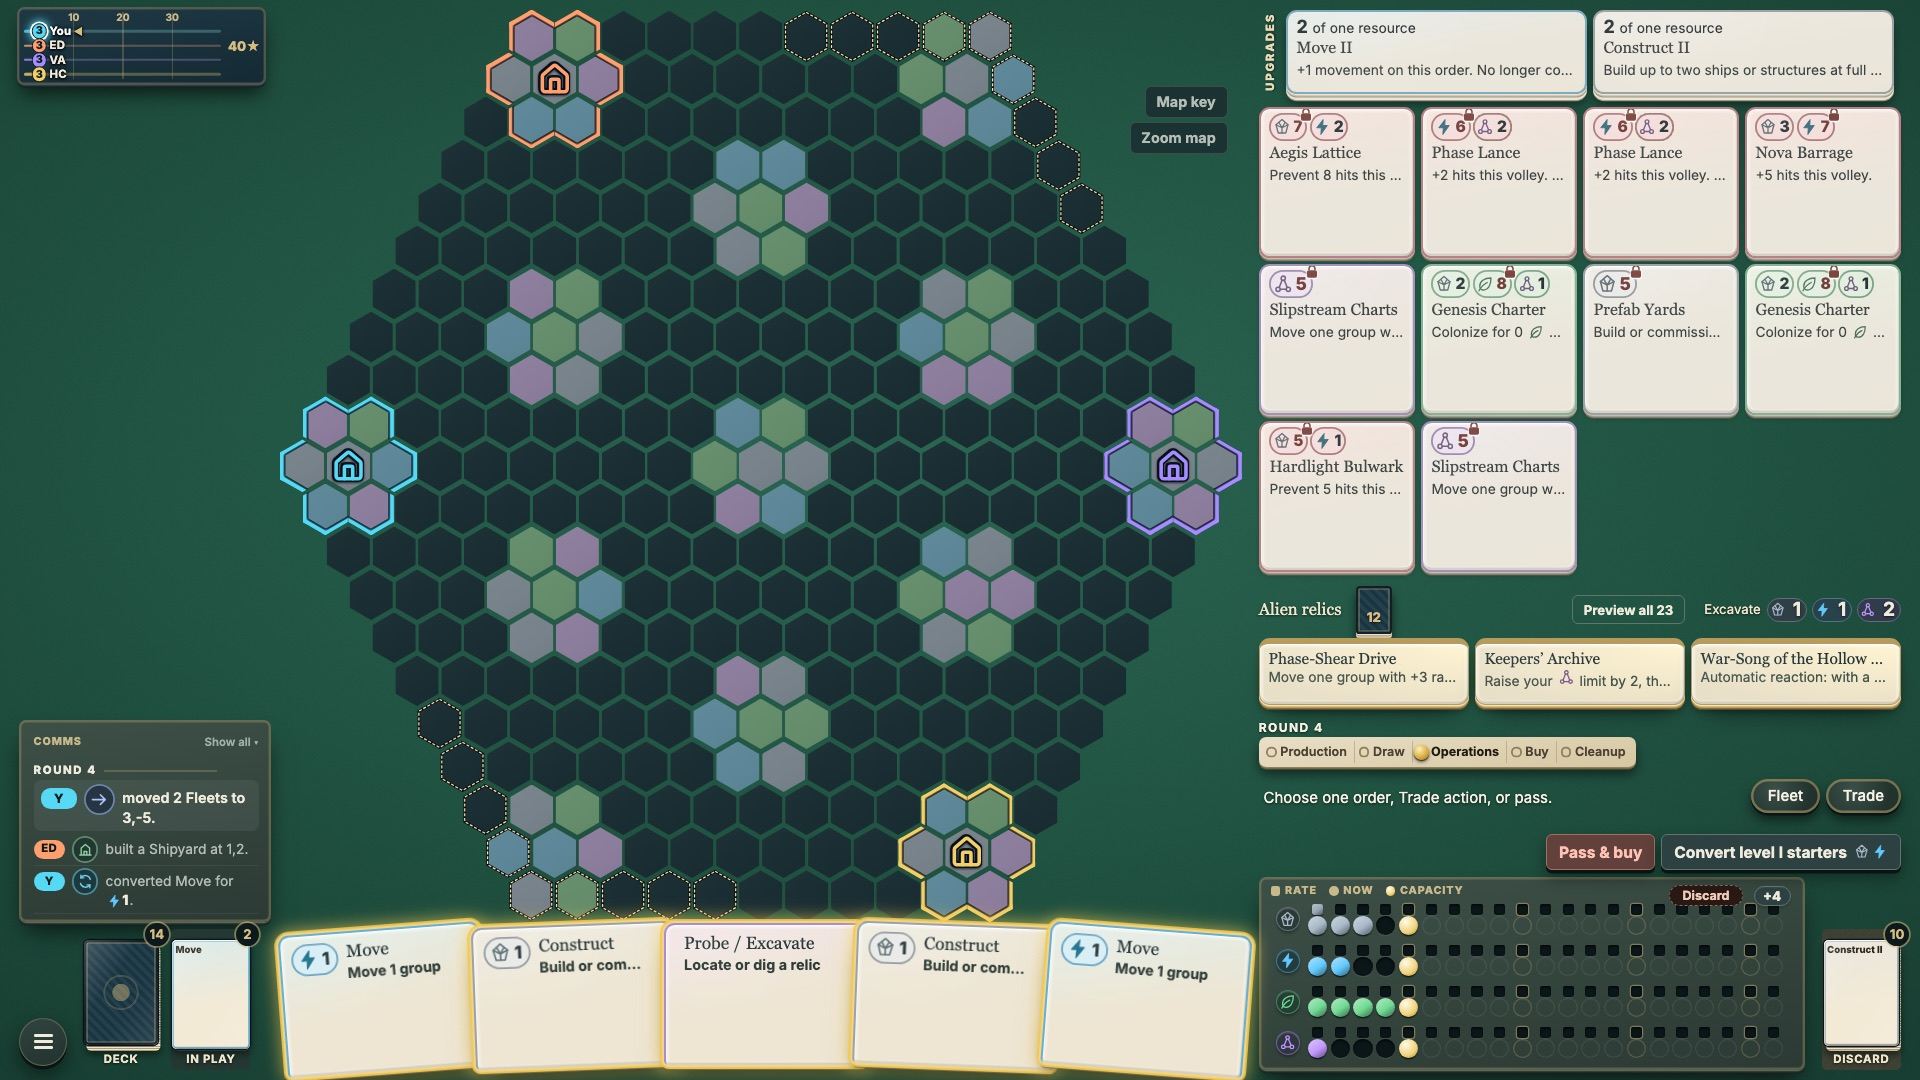
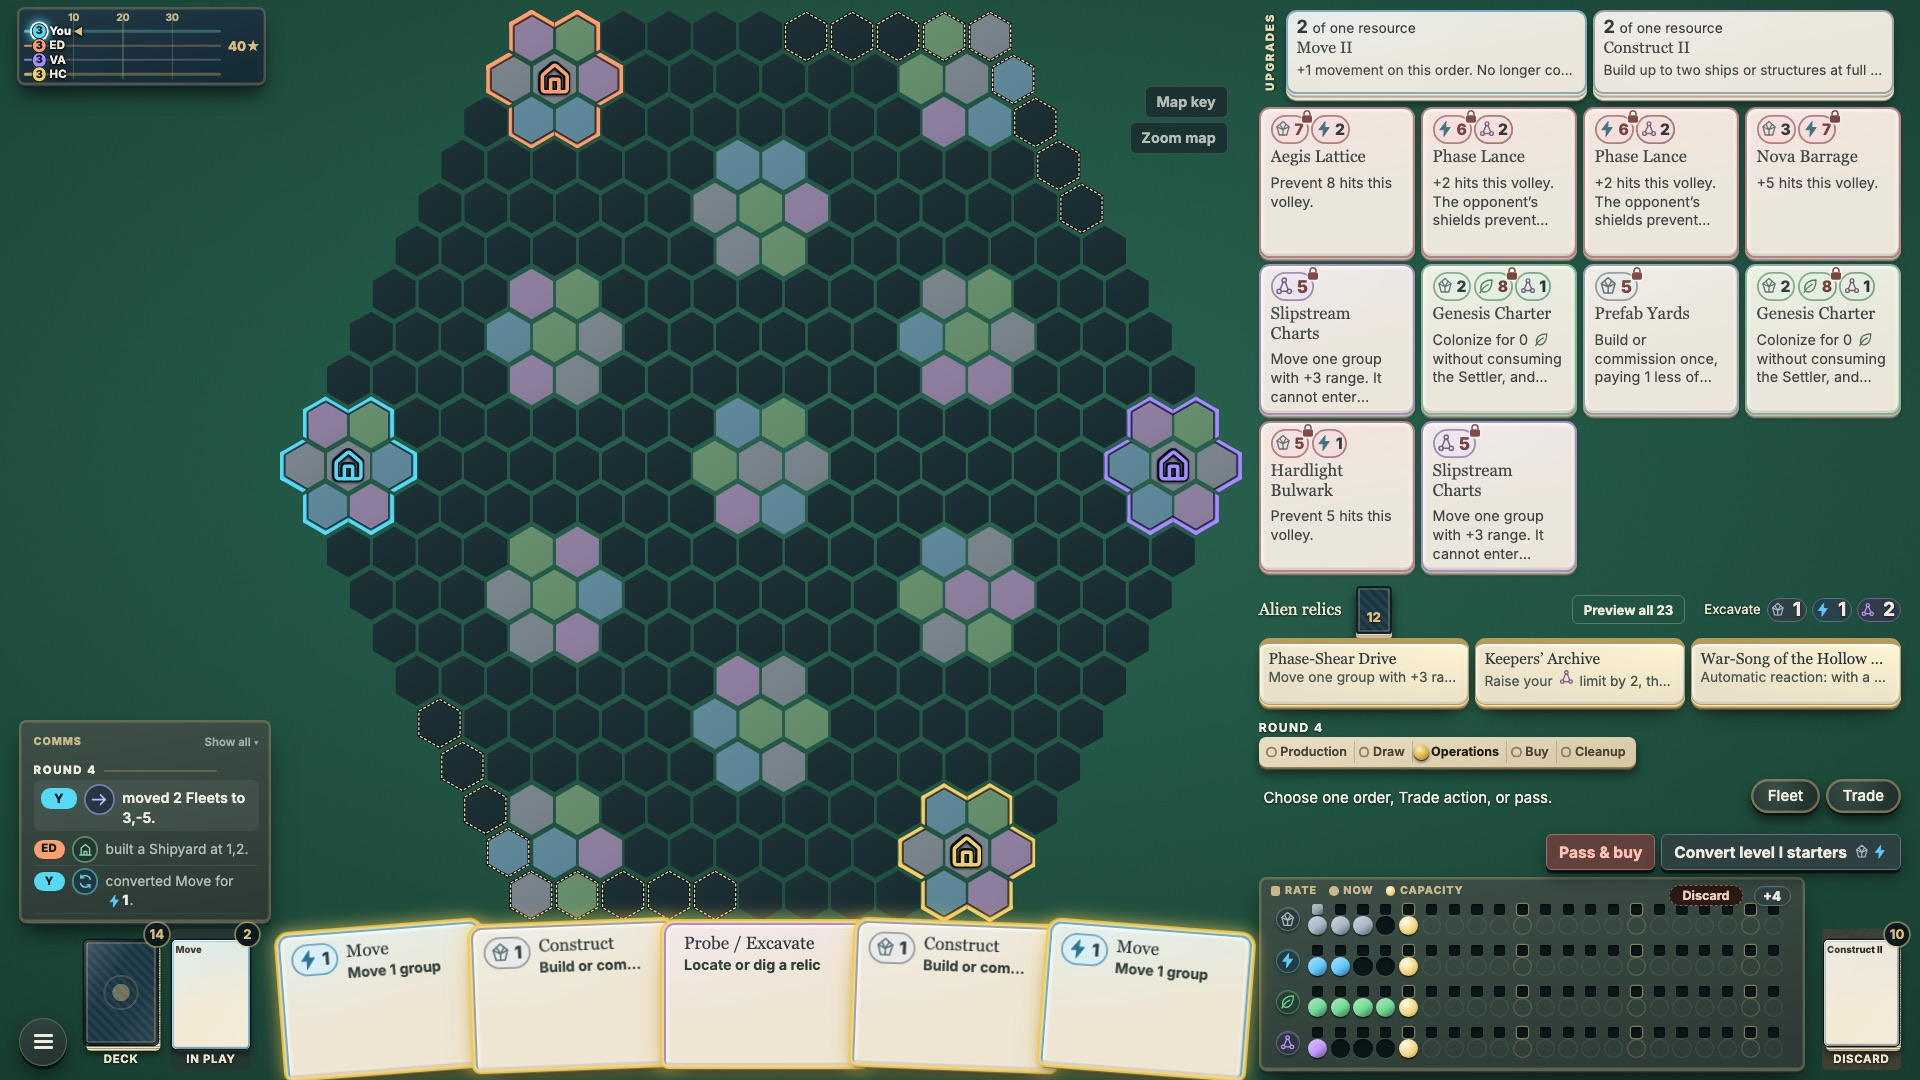
Market cards read without pointing: whole names on up to two lines and as much of each effect as the card's height allows, wrapped

Changed region(s): [[0.6562, 0.2444, 1.0, 0.5194], [0.75, 0.0917, 0.9688, 0.2139], [0.6562, 0.0917, 0.7188, 0.2139]]

diff --git a/prototypes/galactic-reach/rulebook.html b/prototypes/galactic-reach/rulebook.html
@@ -123,7 +123,7 @@
 
       <section id="movement">
         <h2>05 / Exploration &amp; movement</h2>
-        <p id="shared-board">Read shared table information around the board: on a desktop window, the whole window is one table, scaled as a whole to fit; the standings are the race to the Prestige goal, a small printed track by the map’s top-left corner with one lane per faction and its marker at its current score (the acting faction’s marker glows, with an arrow; point at or focus a marker for an overview of that faction’s Prestige sources, colonies, cards bought and fleet power, or select it for the breakdown; on a phone the track is the <strong>Table</strong> drawer); the comms feed lies in the bottom-left corner as a small card of the latest three entries, printed like your player mat; select it to open the whole feed, and again (or press Escape) to close it (each entry shows who acted, a symbol for the kind of event and its resource and Prestige amounts; point at an entry for the full sentence); the map itself fills all the space the other pieces leave, reaching into the corners around the track and the comms card; and to its right lies the supply, all visible together: the <strong>Upgrades</strong> tray (with <strong>Trash a card</strong> beside it during Buy), the ten market cards and the face-up alien relics; below the supply, by your seat, are the round’s phases, the turn prompt, <strong>Fleet</strong> and <strong>Trade</strong>, then the turn’s buttons. On your turn your hand glows and gently breathes (a still glow when your device asks for reduced motion). <strong>Fleet</strong> opens over the supply. The game’s title, rules, card gallery, new game, Undo and playtest notes open from the menu button in the bottom-left corner. The market shows its cards as compact card tops (point at one to read it in full; choose it to buy), and cards you can buy now are outlined in gold. <strong>Trade</strong> opens the trade channel in its own window. Card frames take the colour of the resource a card works with (gold for capacity, Buy and Prestige cards, red for military and attack cards); the map key shows them. Select a Prestige marker to inspect its breakdown; the scoring reference is in <a href="#victory">Victory</a>. On a narrow screen, these panels reflow inside the board frame; scroll the map to reach other hexes. The recent-action feed can say that Probe was used, but never gives its private relic location. Your hand, card piles, reserves, and full game-report download stay on your player mat. The report can include private information.</p>
+        <p id="shared-board">Read shared table information around the board: on a desktop window, the whole window is one table, scaled as a whole to fit; the standings are the race to the Prestige goal, a small printed track by the map’s top-left corner with one lane per faction and its marker at its current score (the acting faction’s marker glows, with an arrow; point at or focus a marker for an overview of that faction’s Prestige sources, colonies, cards bought and fleet power, or select it for the breakdown; on a phone the track is the <strong>Table</strong> drawer); the comms feed lies in the bottom-left corner as a small card of the latest three entries, printed like your player mat; select it to open the whole feed, and again (or press Escape) to close it (each entry shows who acted, a symbol for the kind of event and its resource and Prestige amounts; point at an entry for the full sentence); the map itself fills all the space the other pieces leave, reaching into the corners around the track and the comms card; and to its right lies the supply, all visible together: the <strong>Upgrades</strong> tray (with <strong>Trash a card</strong> beside it during Buy), the ten market cards and the face-up alien relics; below the supply, by your seat, are the round’s phases, the turn prompt, <strong>Fleet</strong> and <strong>Trade</strong>, then the turn’s buttons. On your turn your hand glows and gently breathes (a still glow when your device asks for reduced motion). <strong>Fleet</strong> opens over the supply. The game’s title, rules, card gallery, new game, Undo and playtest notes open from the menu button in the bottom-left corner. The market shows its cards with their names and as much of each effect as fits, wrapped (point at one to read it in full; choose it to buy), and cards you can buy now are outlined in gold. <strong>Trade</strong> opens the trade channel in its own window. Card frames take the colour of the resource a card works with (gold for capacity, Buy and Prestige cards, red for military and attack cards); the map key shows them. Select a Prestige marker to inspect its breakdown; the scoring reference is in <a href="#victory">Victory</a>. On a narrow screen, these panels reflow inside the board frame; scroll the map to reach other hexes. The recent-action feed can say that Probe was used, but never gives its private relic location. Your hand, card piles, reserves, and full game-report download stay on your player mat. The report can include private information.</p>
         <p id="keyboard-controls">Use <strong>Tab</strong> to reach controls and <strong>Enter</strong> or <strong>Space</strong> to activate them. The first link skips straight to player controls. Use arrow keys, Home, or End to switch the player-control tabs. Escape closes inspectors and reference windows. Combat and excess-resource choices stay open until you make the required choice.</p>
         <div class="book-legend" role="group" aria-label="Map symbols"><span><b class="relic-mark" aria-hidden="true">◈</b> Located relic</span><span><b class="relic-mark" aria-hidden="true">●</b> Gray moon · no production</span></div>
         <p>World terrain is always public, but seeing a world does not locate its relic. Any Settler, Fleet, or Explorer ending a move surveys that world or moon, revealing its terrain to everyone. Arrival never locates a relic. Use <strong>Probe</strong> from your Explorer’s current hex to locate the nearest remaining relic you have not already discovered, even on an unvisited world or hidden moon. Known sites are skipped. When you locate the last unknown site, a message tells you that all remaining relics are discovered. If all remaining sites are already known to you, Probe warns you without spending the card or your action. You do not need to reach that world or moon first. A signal on an undiscovered moon reveals the relic’s hex to you without revealing the moon’s terrain. Other players must locate it for themselves. Existing discovery relic cards keep their printed effects. Probe and Chorus signals stay private after later terrain surveys. Only an effect that explicitly reveals relics to everyone makes them public. All players’ units remain visible, including in empty space. Unit markers alone do not reveal a hidden moon or relic.</p>

diff --git a/prototypes/galactic-reach/styles.css b/prototypes/galactic-reach/styles.css
@@ -2486,3 +2486,21 @@ html { -webkit-text-size-adjust: 100%; text-size-adjust: 100%; }
 @media (max-width: 599px), (max-height: 599px) {
   body.my-turn #hand-row > .game-card { box-shadow: 0 0 0 2px #f2c94ccc, 0 0 12px 2px #f2c94c55 !important; }
 }
+
+/* ==== Supply cards read like cards without pointing at them: a folded market card shows as much
+   of its effect, wrapped, as its height allows (one to five lines, chosen by the card's own
+   height), in larger type under the name (up to two lines) and cost. Point at a card for the whole card as before. ==== */
+@media (min-width: 600px) and (min-height: 600px) {
+  #market-panel #market-row .game-card:not(:hover):not(:focus):not(:focus-within) { container-type: size; align-content: start; row-gap: 3px !important; padding: 5px 8px 6px !important; }
+  #market-panel #market-row .game-card:not(:hover):not(:focus):not(:focus-within) .card-name { font-size: 14px !important; line-height: 1.15 !important; white-space: normal !important; display: -webkit-box !important; -webkit-box-orient: vertical; -webkit-line-clamp: 2; line-clamp: 2; overflow: hidden !important; text-overflow: clip !important; }
+  /* The full effect takes the one-line headline's place. */
+  #market-panel #market-row .game-card:not(:hover):not(:focus):not(:focus-within) .card-headline { display: none !important; }
+  #market-panel #market-row .game-card:not(:hover):not(:focus):not(:focus-within) .card-effect {
+    grid-area: head !important; display: -webkit-box !important; -webkit-box-orient: vertical; -webkit-line-clamp: 1 !important; line-clamp: 1 !important;
+    white-space: normal !important; overflow: hidden !important; font-size: 12px !important; line-height: 1.3 !important;
+  }
+  @container (min-height: 94px) { #market-panel #market-row .game-card:not(:hover):not(:focus):not(:focus-within) .card-effect { -webkit-line-clamp: 2 !important; line-clamp: 2 !important; } }
+  @container (min-height: 110px) { #market-panel #market-row .game-card:not(:hover):not(:focus):not(:focus-within) .card-effect { -webkit-line-clamp: 3 !important; line-clamp: 3 !important; } }
+  @container (min-height: 126px) { #market-panel #market-row .game-card:not(:hover):not(:focus):not(:focus-within) .card-effect { -webkit-line-clamp: 4 !important; line-clamp: 4 !important; } }
+  @container (min-height: 142px) { #market-panel #market-row .game-card:not(:hover):not(:focus):not(:focus-within) .card-effect { -webkit-line-clamp: 5 !important; line-clamp: 5 !important; } }
+}

diff --git a/changes/gr-ui-followup.md b/changes/gr-ui-followup.md
@@ -3,4 +3,4 @@ compat: safe
 title: The turn lies with your seat
 pr: 74
 ---
-The round's phases, the turn prompt and Fleet/Trade now sit at the bottom of the supply, next to your hand and the turn's buttons, and the supply starts at the top. On your turn your hand glows and gently breathes instead of a "Your turn" banner ([Shared board](rulebook.html#shared-board)).
+The round's phases, the turn prompt and Fleet/Trade now sit at the bottom of the supply, next to your hand and the turn's buttons, and the supply starts at the top. On your turn your hand glows and gently breathes instead of a "Your turn" banner ([Shared board](rulebook.html#shared-board)). Market cards show their whole name and as much of their effect as fits, so they read without pointing at them.
